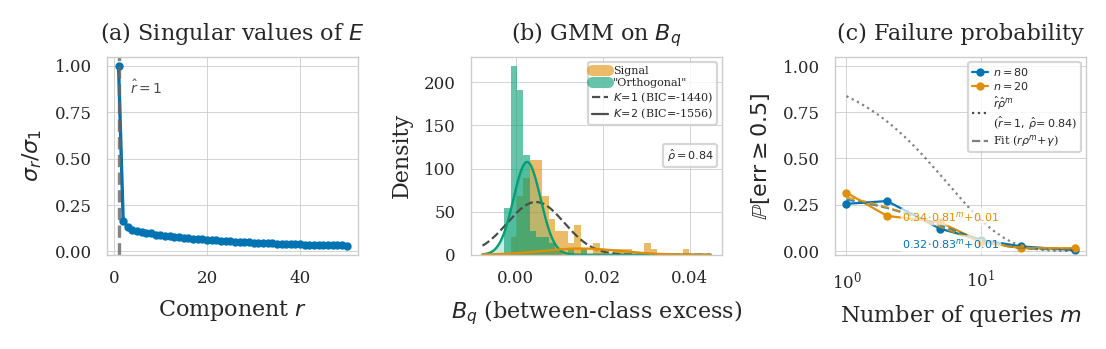
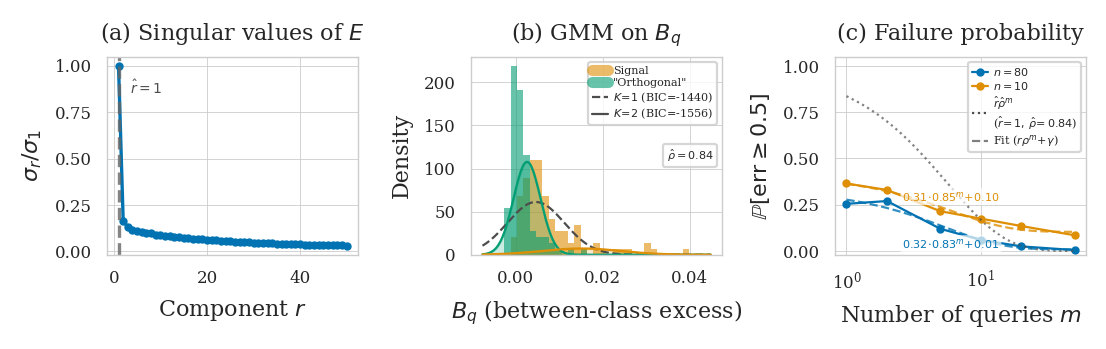
Revert figure 3 failure curves to n=10

Changed region(s): [[0.7378, 0.5158, 0.9837, 0.7163]]

diff --git a/bbo/plotting/estimation_panels.py b/bbo/plotting/estimation_panels.py
@@ -137,10 +137,10 @@ def plot_estimation_panels(
     if fail_csv_path is not None and Path(fail_csv_path).exists():
         df_fail = pd.read_csv(fail_csv_path)
 
-        n_colors = {80: PALETTE[0], 20: PALETTE[1]}
+        n_colors = {80: PALETTE[0], 10: PALETTE[1]}
         has_n = "n" in df_fail.columns
 
-        for n_val in [80, 20]:
+        for n_val in [80, 10]:
             if has_n:
                 sub = df_fail[(df_fail["query_set"] == "uniform") &
                               (df_fail["n"] == n_val)].sort_values("m")
@@ -167,7 +167,7 @@ def plot_estimation_panels(
             return a * rho ** m + gamma
 
         fit_results = {}
-        for n_val in [80, 20]:
+        for n_val in [80, 10]:
             if has_n:
                 sub_n = df_fail[(df_fail["query_set"] == "uniform") &
                                 (df_fail["n"] == n_val)].sort_values("m")
@@ -194,8 +194,8 @@ def plot_estimation_panels(
         # Legend
         leg = [Line2D([0], [0], color=n_colors[80], linestyle="-", lw=0.8,
                        marker="o", markersize=2, label="$n=80$"),
-               Line2D([0], [0], color=n_colors[20], linestyle="-", lw=0.8,
-                       marker="o", markersize=2, label="$n=20$")]
+               Line2D([0], [0], color=n_colors[10], linestyle="-", lw=0.8,
+                       marker="o", markersize=2, label="$n=10$")]
         if rho_hat > 0:
             leg.append(Line2D([0], [0], color="0.3", linestyle=":", lw=0.8,
                               label=f"$\\hat{{r}}\\hat{{\\rho}}^m$"
@@ -208,8 +208,8 @@ def plot_estimation_panels(
 
         # Annotate fit expressions near curves
         annot_cfg = {80: {"m": 6, "va": "top", "offset": -0.04},
-                     20: {"m": 6, "va": "bottom", "offset": 0.04}}
-        for n_val in [80, 20]:
+                     10: {"m": 6, "va": "bottom", "offset": 0.04}}
+        for n_val in [80, 10]:
             if n_val not in fit_results:
                 continue
             a_f, rho_f, gamma_f = fit_results[n_val]
